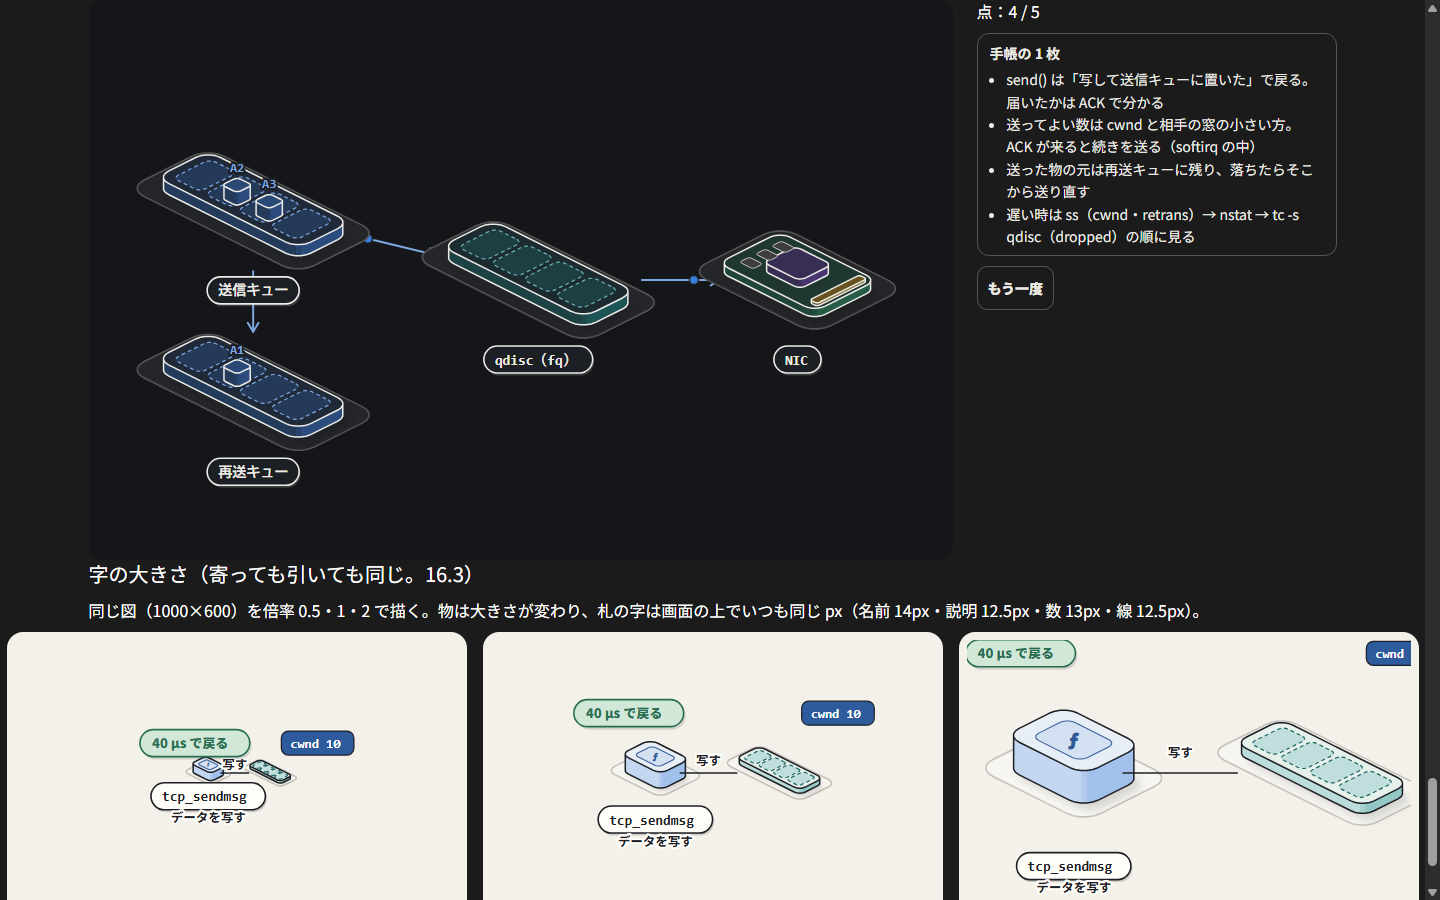
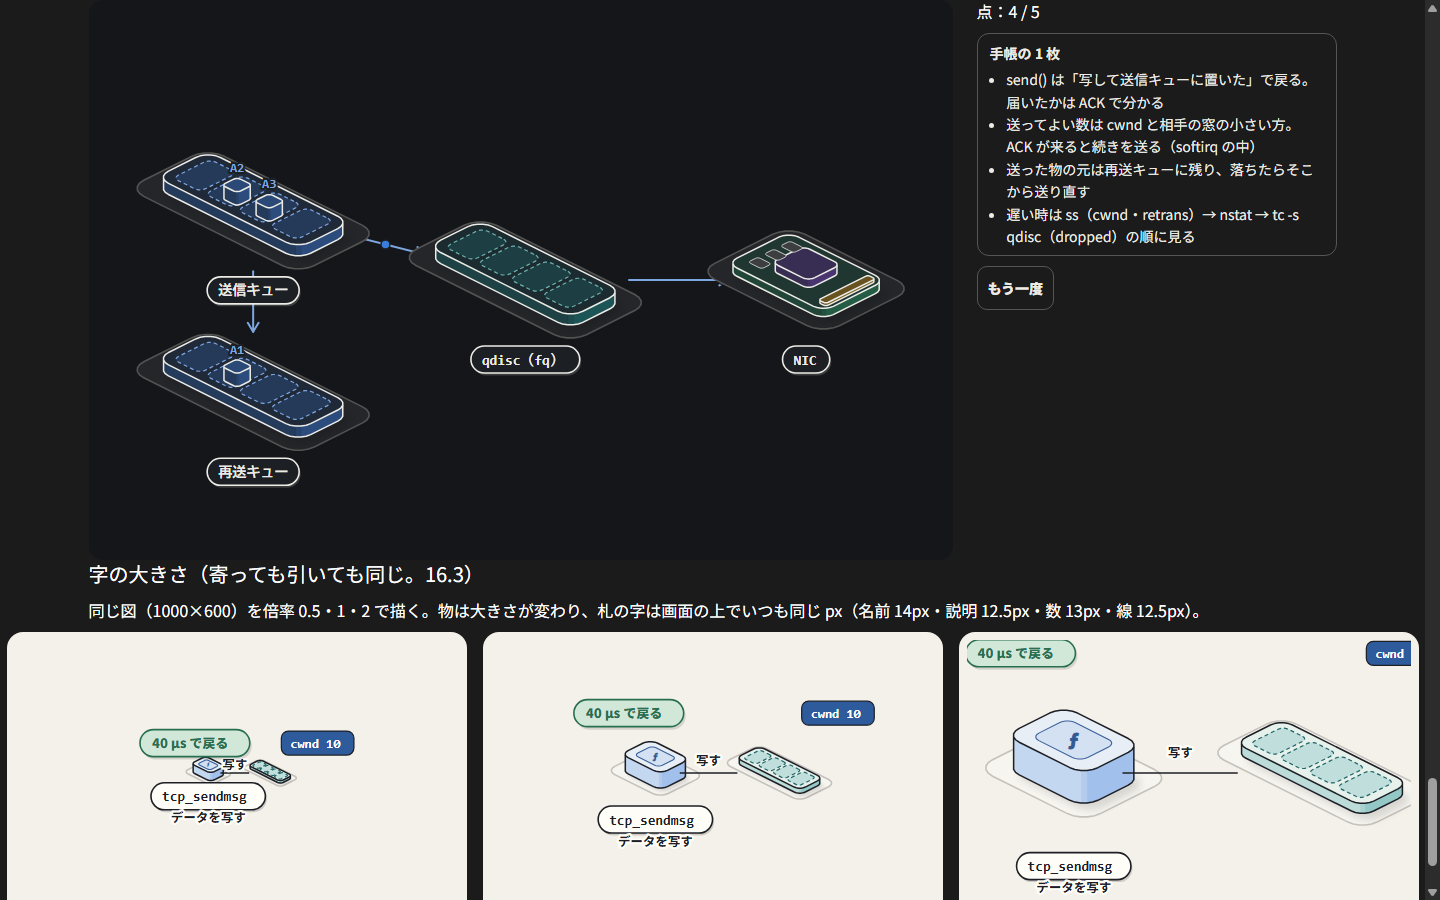
devlearn 10-P 手順 3：20 回目の判定（18/20・18/20）の「<」を直す（queue の溝の点線を名前の手前で切り時計を上げる、platform の重なりを無くす、frame の上に変数を立てる）。自分で決めたこと 3 項（試す・やってみる・思い出す）。次の実行が読む所を更新

Changed region(s): [[0.25, 0.2489, 0.4375, 0.4356], [0.4688, 0.2489, 0.625, 0.4044]]

diff --git a/devlearn/src/lib/ui/scene/kit/Queue.svelte b/devlearn/src/lib/ui/scene/kit/Queue.svelte
@@ -6,7 +6,7 @@
 	import Base from './Base.svelte';
 	import Token from './Token.svelte';
 	import Solid from './Solid.svelte';
-	import { FOOT, edge, face, type Tone } from './paint';
+	import { FOOT, edge, face, textWidth, type Tone } from './paint';
 	type Props = {
 		x: number;
 		y: number;
@@ -46,13 +46,34 @@
 	);
 	/** 時計は待つ物の印：荷物の名前から離し、列の右端（次の荷物が入る溝）の上に添える（判定 15 回目） */
 	const itemAt = (i: number) => P.at(-78 + i * 52, 0, f[2]);
-	const cp = $derived(P.at(78, 0, f[2] + 40));
+	const cp = $derived(P.at(78, 0, f[2] + 58));
+	/** 荷物の名前の札の箱（画面）。溝の点線は、この箱の外側 4px 手前で切る（LS3-S4・判定 20 回目） */
+	const GAP = 11;
+	const nameBox = $derived(
+		items.map((it, i) => {
+			const q = itemAt(i + 1);
+			const hh = 24 * 0.8 * s;
+			const cy = q[1] - 2 * s - hh * 0.55 - GAP * uik - 4.5 * uik;
+			const w = textWidth(it, 13) * uik;
+			const h = 13 * uik;
+			const pad = 4 * uik;
+			return { x: q[0] - w / 2 - pad, y: cy - h / 2 - pad, w: w + pad * 2, h: h + pad * 2 };
+		})
+	);
+	const mid = $props.id();
 </script>
 
 <Base {x} {y} {s} {uik} w={f[0]} d={f[1]} {tone} {hl} {lift} {op} {id} {term}>
 	<Solid g={body} {tone} top={hl ? 18 : 11} {uik} />
+	<mask id="qm-{mid}" maskUnits="userSpaceOnUse">
+		<rect x={x - 400} y={y - 400} width={800} height={800} fill="#fff" />
+		{#each nameBox as b, i (i)}
+			<rect x={b.x} y={b.y} width={b.w} height={b.h} rx={4 * uik} fill="#000" />
+		{/each}
+	</mask>
 	{#each slots as sl, i (i)}
 		<polygon
+			mask="url(#qm-{mid})"
 			points={ptsStr(sl)}
 			style:fill={face(tone, 28)}
 			style:stroke={edge(tone)}
@@ -62,7 +83,7 @@
 	{/each}
 	{#each items as it, i (i)}
 		{@const q = itemAt(i + 1)}
-		<Token x={q[0]} y={q[1] - 2 * s} label={it} scale={0.8 * s} {uik} gap={11} />
+		<Token x={q[0]} y={q[1] - 2 * s} label={it} scale={0.8 * s} {uik} gap={GAP} />
 	{/each}
 	{#if clock}
 		<circle

diff --git a/devlearn/src/routes/kit/+page.svelte b/devlearn/src/routes/kit/+page.svelte
@@ -140,19 +140,22 @@
 					{@render name(120, 752, 'db')}
 					<Platform x={430} y={650} w={330} d={210} id="platform" />
 					<!-- 台の上の Pod は単体の Pod と同じ大きさ（同じ物は同じ形。第 17 章） -->
-					<Pod x={360} y={625} s={0.8} state="ready" name="web-1" />
-					<Pod x={515} y={655} s={0.8} state="dead" name="web-2" />
+					<Pod x={350} y={640} s={0.8} state="ready" name="web-1" />
+					<Pod x={500} y={690} s={0.8} state="dead" name="web-2" />
 					<Tag x={300} y={720} text="node-1" dot="var(--dl-obj-green)" />
 					{@render name(560, 800, 'platform と pod')}
-					<Platform x={760} y={650} w={220} d={150} down />
-					<Pod x={760} y={650} s={0.55} state="paper" name="web-3" label="" />
-					{@render name(760, 760, '落ちたノード・紙の pod')}
+					<Platform x={820} y={650} w={200} d={140} down />
+					<Pod x={820} y={650} s={0.55} state="paper" name="web-3" label="" />
+					{@render name(820, 760, '落ちたノード・紙の pod')}
 					<!-- 4 段目 -->
 					<Pod x={90} y={880} s={0.8} state="ready" name="web-a" />
 					<Pod x={235} y={880} s={0.8} state="create" name="web-b" />
 					<Pod x={380} y={880} s={0.8} state="dead" name="web-c" />
 					<Frame x={575} y={950} w={170} d={110} name="<module>" />
+					<Var x={545} y={938} s={0.6} name="a" />
+					<Var x={615} y={958} s={0.6} name="b" />
 					<Frame x={930} y={975} w={170} d={110} name="フレーム add()" current id="frame" />
+					<Var x={930} y={963} s={0.6} name="c" />
 					<!-- 5 段目 -->
 					<List x={200} y={1160} vals={['1', '2', '3']} cap={5} newIdx={2} id="list" />
 					{@render name(200, 1266, 'list（容量 5）')}

diff --git a/devlearn/docs/progress/phase-10.md b/devlearn/docs/progress/phase-10.md
@@ -2,14 +2,14 @@
 
 状態: **進行中**（10-0 済。**今は 10-P（D-25。learn11 を本番の部品に）**。順は 10-P → 10-B → 10-R → 10-C → 9-2 → 10-D → 10-E → 10-W → 11 → 12。止まらない）
 
-## 次の実行が読む所（10-P。2026-11-27 に更新）
+## 次の実行が読む所（10-P。2026-11-27 の 2 回目の実行で更新）
 
-1. `docs/learn-standard.md` 第 16〜20 章（構図・部品集・言葉・4 つの使い方・本番へ移す表）。第 21 章（完成の線）
-2. `docs/prototype/learn/README.md` の learn11 の節。作りの元 `learn11-src/core.js` の 48〜130 行（slab・tag・drawObj・部品）と 300〜380 行（言葉・再生）
-3. この頁の「10-P」の表（下）と「測る道具の結果」。`decisions.md`「自分で決めたこと」の 2026-11-26 の 3 項（窓口 `__l3`・型ごとの線・試作の欠け）
-4. `explanation-standard.md` 第 10・11 章（手順 7 の言葉の仕組みに入る時）
-5. 手順 3 は判定を続ける（表は下の「手順 3 の判定」。`npx tsx scripts/look-kit.ts` で公開 URL を撮り、作った本人ではない判定者 2 人に頼む）。手順 4・5 は済、6・7 は一部
-6. 次は手順 8（4 つの使い方。`learn-standard.md` 第 19 章）と手順 9（見本の題を `content/v3` の `V3Lesson` で書き、`Scene3`・`Tip`・`player.ts` で並べる。検査 41〜48 を通す）。`learn/check-v3.ts` の型 `V3Lesson`・`V3Step` が第 3 版のレッスンの形
+1. `docs/learn-standard.md` 第 15.1（判定の場面 P-1〜P-9）・第 19 章（4 つの使い方）・第 20 章（移す表）・第 21 章（完成の線）
+2. この頁の「10-P」の表（下）。手順 8 は部品が揃った（/kit の 試す・やってみる・思い出す）。次は手順 9
+3. 手順 9：見本の題（net-101・k8s-101）を `content/v3` の `V3Lesson`（`learn/check-v3.ts`）で書き、`Scene3`・`Tip`・`player.ts`・`learn3/*` で学習画面に並べる。上の帯の 4 つの釦・最後の「次へ」で次の使い方へ（第 19 章）。検査 41〜48 を通す
+4. `explanation-standard.md` 第 10・11 章（言葉）・第 13 章（「はじめて」）・検査 41〜48・57〜62（手順 9 の本文を書く時）
+5. 手順 3 は判定を続ける（下の「手順 3 の判定」。`npx tsx scripts/look-kit.ts` で公開 URL を撮り、作った本人ではない判定者 2 人に頼む。字の大きさの目測は `look-uik.ts --kit` の測りで確かめる）
+6. 公開 URL の確かめの台本：`look-kit.ts`・`look-uik.ts`・`look-lab.ts`・`look-try.ts`・`look-recall.ts`・`look-move.ts`・`look-tip.ts`
 
 ## 10-P　試作 learn11 を本番に移す（D-25。2026-11-26 に始めた。進行中）
 
@@ -25,7 +25,7 @@
 | 5 構図と移り変わり `learn/scene/layout.ts` | 部品はできた（2026-11-27）：`sceneAt`（単体テスト 8 本）・`drawList`（物の表と構図から奥→手前の描く並び。単体テスト 4 本）・`Scene3.svelte`（Stage の中に等角の部品と名前の札）。`/kit` の「構図の移り変わり」で公開 URL の `look-move.ts`：0.1 秒ごとに 8 秒、6 件の動きで飛んだ物 0（`move.json`）。学習画面への組み込みは手順 9 で | `2aa40a1` |
 | 6 再生（繰り返し・一時停止・速さ・数え上げ・線の点） | 一部（2026-11-27）：純粋な関数 `learn/player.ts`（`tick`・`countAt`・`flowAt`）はある。線 `learn/scene/wire.ts`（手前で止める・点の位置。単体テスト 5 本）と `kit/Wire.svelte`（矢じり・行き来・点線・流れる点）、`Scene3` の `links`・`flow`。/kit の見本で線の点が流れる。繰り返し・一時停止・速さ・数え上げの画面への組み込みは手順 9 と一緒に | `da254c1` |
 | 7 言葉 `terms.ts`・`content/terms/`・検査 41〜48 | 一部（2026-11-27）：net の言葉の一覧 `src/lib/content/terms/net.ts`（25 語。言葉をそろえるステップの send・fd・buf・バイト・カーネル・NIC・ソケット・システムコール・TCP・ACK と、net-101 の 15 語。出典つき）と検査 43 の単体テスト（80 字以内・1〜2 文・ID が重ならない）。`src/lib/learn/terms.ts`（`Term`・`termIndex`・`markTerms`（長い書き方から・段落で 1 回・英字は単語の途中で当てない）・`firstPerStep`。単体テスト 4 本）。吹き出し（2026-11-27）：`learn/scene/tip.ts`（`placeTip`・`localRect`。単体テスト 6 本）・`label/Tip.svelte`・`Scene3` の `terms`（乗せる・Tab で物が 8 浮き、言葉と説明が出る。外すと消える）。公開 URL の `look-tip.ts` で 4 件とも o（`tip.json`）。検査 41〜48：`learn/check-v3.ts`（単体テスト 11 本）を content:check に足した（当てる物は `content/v3` の `V3_LESSONS`。今は無し。見本は手順 9）。専門語の辞書 `content/terms/jargon.ts`。残り：本文の点線の下線・ステップの番号・使い方の釦・指標・つまみの吹き出し（手順 8・9 の画面と一緒に） | `cbd4417`・`93623ed`・`209ad3b` |
-| 8 4 つの使い方 | 一部（2026-11-27）：試す の計算 `learn/lab.ts`（単体テスト 9 本）・板 `learn3/LabPanel.svelte`（つまみ・説明・結果の表・予想の問い）・図 `learn3/LabFigure.svelte` と `learn/lab-figure.ts`（TCP は往復ごとの cwnd の棒・落ちた往復は赤、k8s はノードの台（2 列の格子）と Pod・Pending。値を変えると 0.9 秒で育ち 6 秒ごとに繰り返す。単体テスト 12 本）。/kit に図と板を並べた。`look-lab.ts` で 6 項目（RTT で時間が半分・予想の当たり外れ・つまみの説明・棒の数＝往復の回数・動き続ける・Pod と台の数）。やってみる・思い出す は未 | `c30f8b4`・`86cfc14`・`be14be4` |
+| 8 4 つの使い方 | 部品はできた（2026-11-27）。**試す**：`learn/lab.ts`・`lab-figure.ts`（単体テスト 21 本）、`learn3/LabPanel`・`LabFigure`（TCP の cwnd の棒・k8s の台と Pod。値で計算し直し育つ動きを繰り返す）。公開 URL の `look-lab.ts` 6 項目 o。**やってみる**：`learn/try3.ts`（履歴・補完・Ctrl+L・やることの ✓。単体テスト 10 本）と `content/v3/try-tcp.ts`（ss・nstat・tc・ethtool・sysctl。出力は本物の形）、`learn3/TryPanel3`・`TryFigure`（qdisc が pfifo_fast→fq、cwnd 9→86 で図が変わる）。公開 URL の `look-try.ts` 9 項目 o。**思い出す**：`learn/recall3.ts`（選ぶ・並べる・図を押す・数・説明・点。単体テスト 12 本）と `content/v3/recall-tcp.ts`（5 問・手帳の 1 枚）、`learn3/RecallPanel3`・`RecallFigure`（押せる置き場が光り、答えると正しい物が緑）。`look-recall.ts` 3 項目。全て /kit に並べた。残り：上の帯の 4 つの釦で行き来・最後の釦で次の使い方へ（手順 9 の学習画面で）、k8s・mem・stat の やってみる・思い出す（手順 9 の見本の題で） | `86cfc14`・`be14be4`・`3442c9e`・`ca7dbe0` |
 | 9 見本の題で並べる | 未 | |
 | 10 判定（P-1〜P-9、判定者 2 人） | 未 | |
 | 11 見てもらう材料 | 未 | |
@@ -53,7 +53,8 @@
 | 17（配信 `fa0cb95`） | 19/20（< は platform：台の上の Pod が単体より小さく、窮屈で、台に名前が無い） | **20/20** | 台の上の Pod を単体と同じ縮尺 0.8 にし、台を広げ、台に名前の札 node-1（次のコミット） |
 | 18（配信 `c928133`） | 18/20（< は platform：札「platform と pod」が台の手前の角に掛かる・frame：名前の札が板の奥の輪郭をまたぐ） | 18/20（< は platform・frame。同じ理由） | frame の名前の札を試作と同じく板の手前の角の真下に 18 離して置き、platform の札を台から離す（`be14be4`） |
 | 19（配信 `3375da0`） | 18/20（< は queue・list：名前の札が台の輪郭に触れる。db もぎりぎり） | 19/20（< は queue：荷物の名前 B・C が約 11px で溝の点線に乗る。数の札も 10〜11px と目測。公開 URL の `look-uik.ts --kit` で測ると B・C・数の札とも 13px。大きさは否定） | queue・db・list の札を台から 12〜16 離す、queue の荷物の名前を箱から 11 上げて点線から離す（次のコミット） |
-| 20 | ROUND20A | ROUND20B | |
+| 20（配信 `3442c9e`） | 18/20（< は queue：名前 B・C が溝の点線に乗る・時計が縁に重なる、platform：落ちたノードの台が node-1 の台に重なり、web-2 の × が台の縁に乗る） | 18/20（< は queue：同じ、frame：上に名前の小箱（変数）が立っていない） | 溝の点線を名前の札の 4px 手前で切る（mask）・時計を上げる、落ちたノードを右へ離し web-2 を台の内へ、フレームの上に変数 a・b・c を立てる（次のコミット） |
+| 21 | ROUND21A | ROUND21B | |
 
 - 字の大きさが寄っても引いても 13〜15px か（16.3）の証拠は手順 4（`UIK`）で取る（判定者 B の指摘）
 

diff --git a/devlearn/docs/decisions.md b/devlearn/docs/decisions.md
@@ -440,6 +440,9 @@
 - 2026-11-27（10-P 手順 7）図の吹き出しは `Scene3` が持つ（`terms` を受け取り、`data-term` の物に乗せる・Tab で移ると、その物を 8 浮かせ、`placeTip` で物の上、入らなければ下、枠の中に置く）。吹き出しの中は言葉の見出しと説明 1〜2 文だけ（長い説明・たとえは言葉の一覧の頁へ）。理由：learn-standard.md 18.3 H1・LS3-M4・U-10
 - 2026-11-27（10-P 手順 7）検査 41〜48 は第 3 版のレッスンの形 `V3Lesson`（`learn/check-v3.ts`。`terms` は言葉の ID・`steps[].first` は初めて出る言葉・`steps[].layout`・`intro`）に当てる。第 2 版の `Lesson.terms`（{word, mean}）とは別の形にし、見本を第 3 版で書き直す時（手順 9）に移す。物の重なり（検査 48）は物の中心からの半径 `REACH`（線を止める所と同じ）で数え、中に物を乗せる台（platform・frame）は数えない。辞書は `src/lib/content/terms/jargon.ts`（仕様の `src/content/` は、このリポジトリの置き場に合わせた）。理由：explanation-standard.md 検査 41〜48・第 11 章
 - 2026-11-27（公開）検査 39（`impl:verify`）が取得先（raw.githubusercontent.com）の一時的な失敗で 1 日に 2 回落ち、公開が止まった。版の tag のソースは変わらないので、Actions の `actions/cache` に `.cache/impl` を残し、403（回数の制限）も取り直す（6 回まで）。理由：CLAUDE.md 第 4 章・D-24（検査は保ち、取得の揺れでは止めない）
+- 2026-11-27（10-P 手順 8）試す の図は題ごとに計算の結果を描く：TCP は 1 往復ごとの cwnd の棒（落ちた往復は赤）、k8s はノードの台を 2 列の格子に並べ、Pod を台の中の格子に（Pending は下の列）。値を変えると 0.9 秒で育ち 6 秒ごとに繰り返す（`learn/lab-figure.ts`）。learn-standard.md 第 19 章「つまみの値で計算し直した図」・LS3-M1 に沿う
+- 2026-11-27（10-P 手順 8）やってみる は打った命令の並びだけから状態が決まる模型（`learn/try3.ts`。clear と Ctrl+L は同じ・Tab は見本の命令の共通の頭まで補う・知らない命令は「使えない」と次の一手）。出力は man の形に合わせ、数は場面の作り話（番地は RFC 5737 の文書用）。CLAUDE.md 第 9 章「本物が動かせない物は模擬を作り、本物と同じ出力」に沿う
+- 2026-11-27（10-P 手順 8）思い出す の「説明（短い文）」は、大事な言葉の組（どれか 1 つが入れば良い）が全て入れば当たり、外れは足りない言葉と手本を見せる（`learn/recall3.ts`）。AI で採点しない（無料・乱数なし。CLAUDE.md 第 6・8 章）。mastery-standard.md EV-1 に沿う
 
 ## 未決
 
